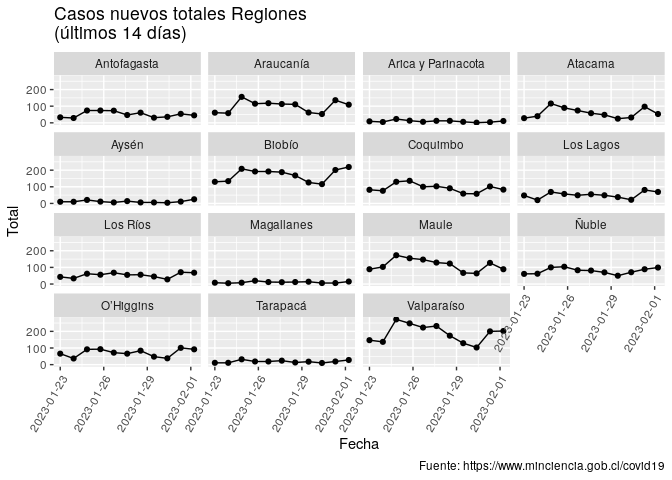
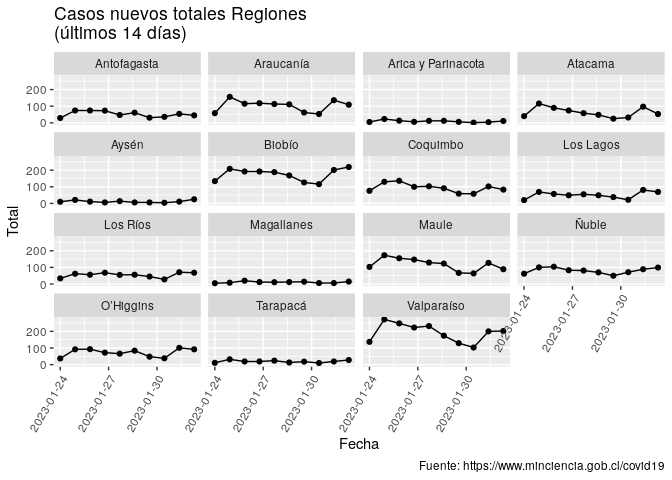
Re-build Rmarkdown files

diff --git a/README.md b/README.md
@@ -3,7 +3,7 @@
 
 Ejemplo de uso de total\_casos de COVID recopilados por el Ministerio de
 Ciencia de Chile <https://www.minciencia.gob.cl/covid19>. Última
-actualización: 2023-02-05
+actualización: 2023-02-06
 
 ## Visualización desde el comienzo de la pandemia
 
